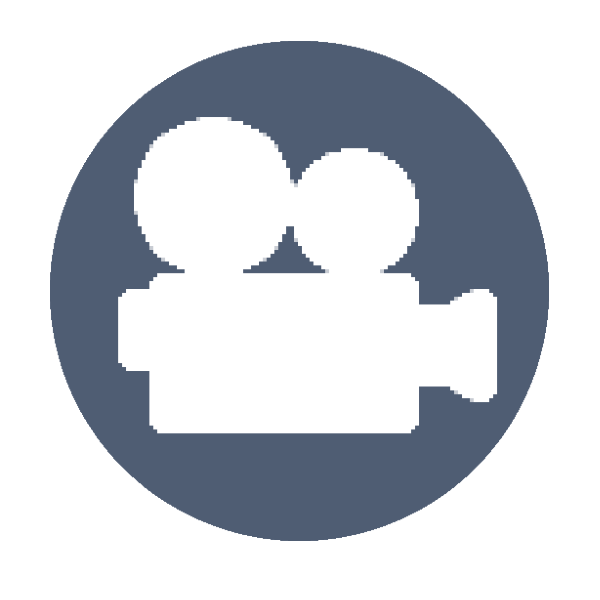
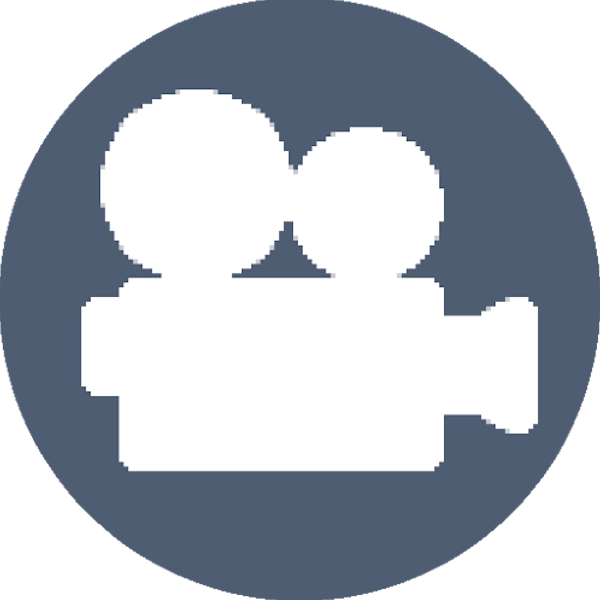
Updated index and an image size

diff --git a/stream-credits/index.html b/stream-credits/index.html
@@ -25,12 +25,12 @@
       />
     </h1>
     <h2 class="sub-heading">
-      Collects Various information during your stream to create movie like end
+      Collects various information during your stream to create movie like end
       credits
     </h2>
     <p>
       Have you ever wanted a fully customisable end credits for your stream to
-      display your stream status and thank your subs? Look no further! Check out
+      display your stream stats and thank your subs? Look no further! Check out
       the features below!
     </p>
 
@@ -115,7 +115,7 @@
         <br />
       </li>
       <li>
-        If the setup was successful, you'll see the following popup:
+        If the setup was successful, you'll see the following popup:<br />
         <a
           href="https://raw.githubusercontent.com/Chrizzz-1508/extension-documentation/refs/heads/main/stream-credits/setup5.png"
           target="_blank"
